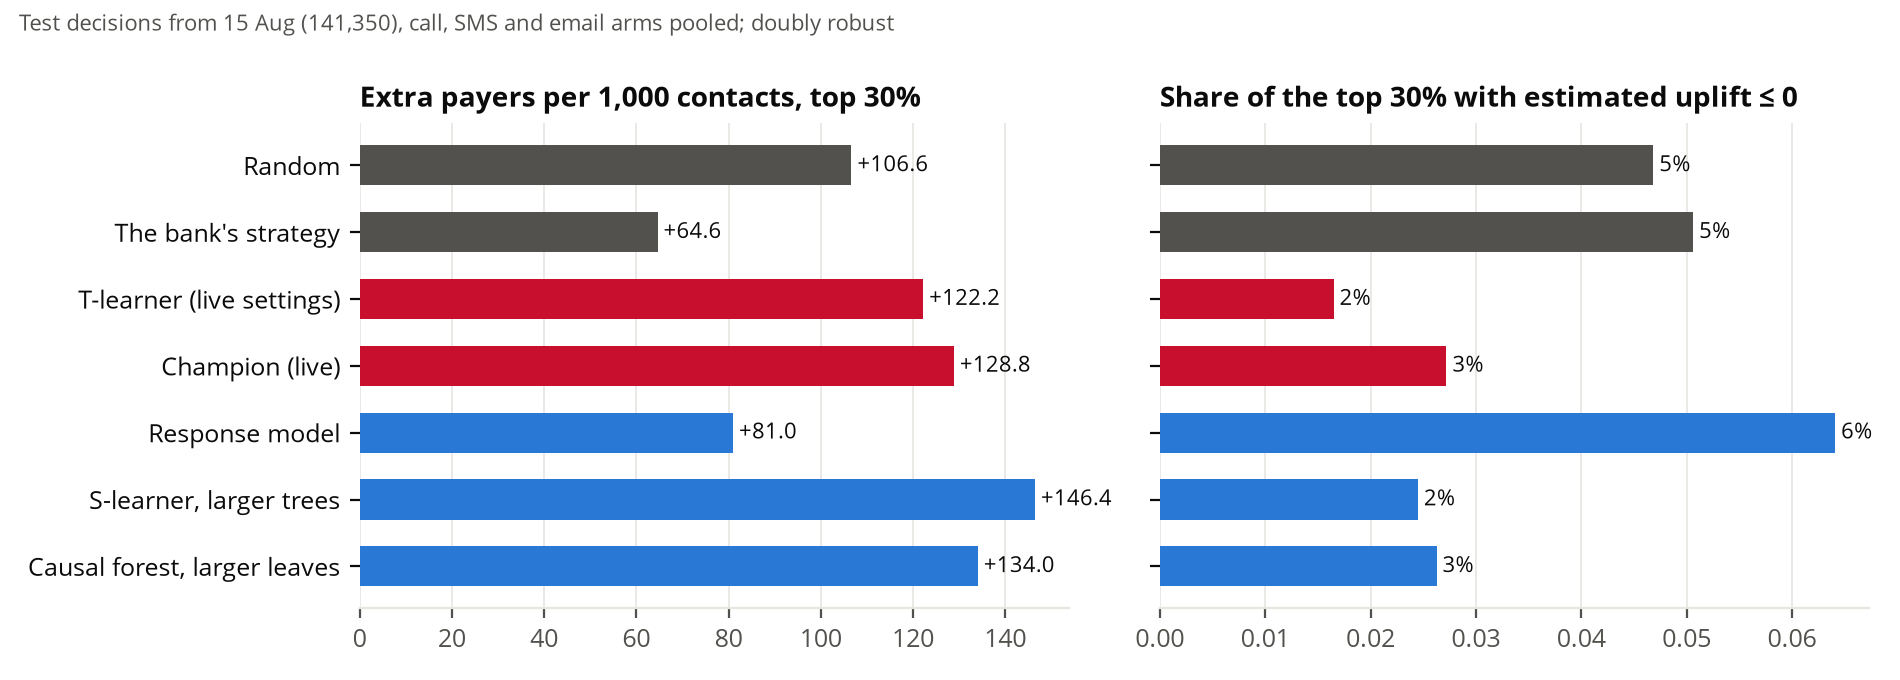
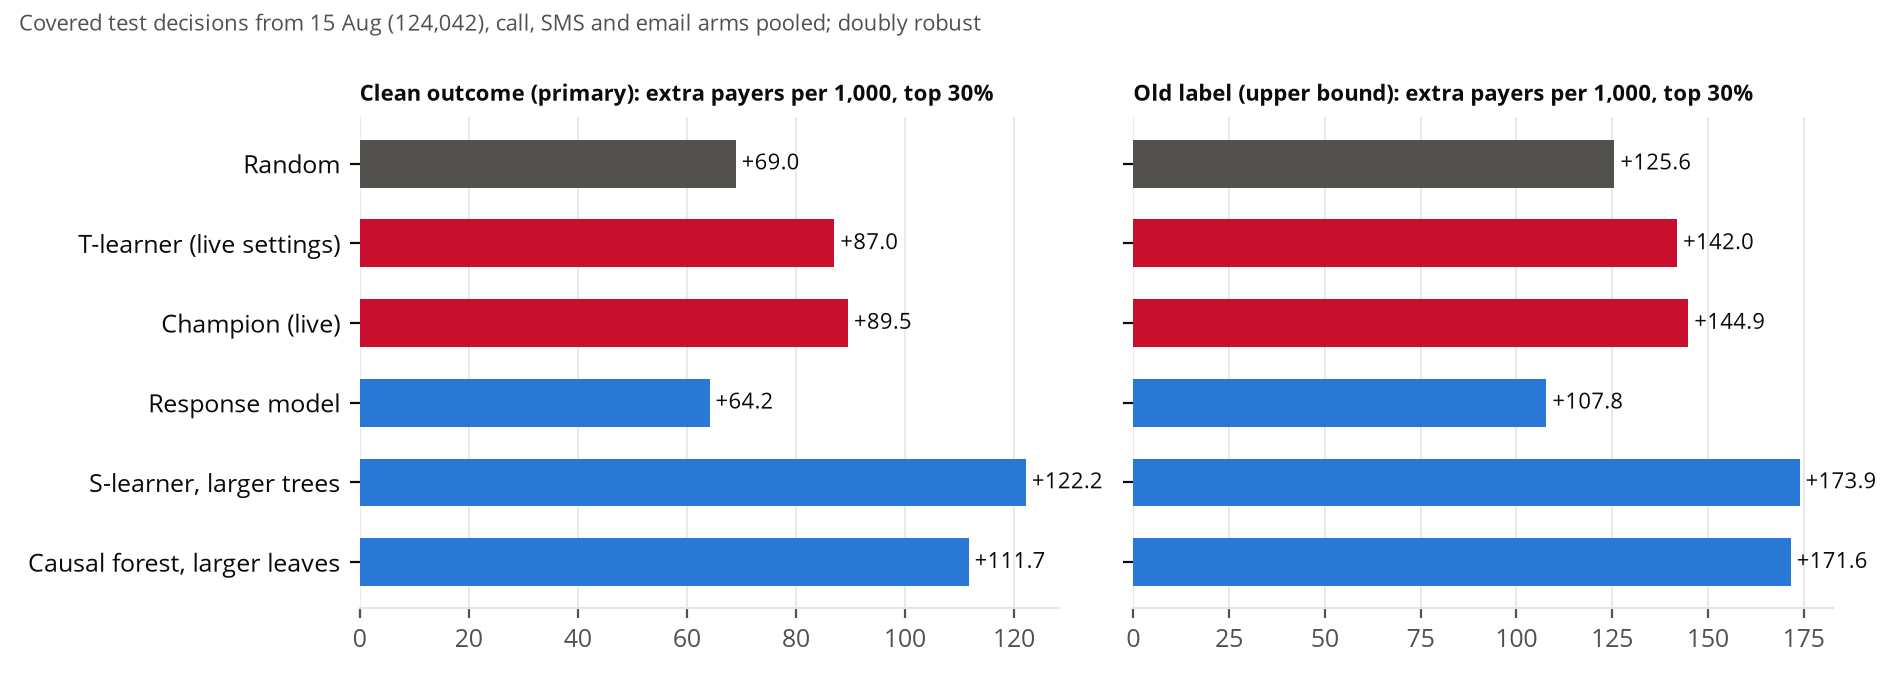
B10 on the clean outcome: decision_B10.py

diff --git a/scripts/decision_B10.py b/scripts/decision_B10.py
@@ -1,0 +1,243 @@
+# ruff: noqa: E501  (report prose)
+"""Decision B10 (docs/reports/decisions.md): uplift against a "who will pay" response model, and the learner choice.
+
+    uv run --extra model --extra analysis python scripts/decision_B10.py [--warehouse data/warehouse/kept.duckdb]
+
+Candidates are fitted as the live model is (rows with a known 14-day payment, the old label) and judged on the windows
+of uplift_learners.py: variants chosen on validation (fitted before 15 Jul, scored 15 Jul to 15 Aug), then scored once on
+the decisions from 15 Aug. The judge is the doubly robust (AIPW) Qini from nuisance models no candidate uses, on covered
+cases. Two outcomes: the clean one (paid_clean_14d, account-sourced payments; primary) and the old label (paid_14d, which
+counts link and app payments seen only as flags on the contact row; the upper bound, uplift_improvement.md).
+Writes data/exports/reports/decision_B10.json and docs/reports/figures/dec_B10.png.
+"""
+
+from __future__ import annotations
+
+import argparse
+import json
+import pickle
+from pathlib import Path
+from typing import Any
+
+import duckdb
+import numpy as np
+import pandas as pd
+from lightgbm import LGBMClassifier, LGBMRegressor
+from uplift_learners import ARMS, COLS, CUTOFF, NUIS, VALID_FROM, dr_qini
+
+from kept.nba.train import ACTIONS, load_rows
+from kept.nba.uplift import DEFAULT_PARAMS, TLearnerUplift, _frame
+
+REPO = Path(__file__).resolve().parents[1]
+OUTCOMES = {"clean": "paid_clean_14d", "old_label": "paid_14d"}  # judge outcomes, on the same covered rows
+TOPS, SURE = (0.1, 0.3, 0.5), 0.3
+S_VARIANTS = {"S-learner": {}, "S-learner, larger trees": dict(n_estimators=200, num_leaves=15)}
+CF_VARIANTS = {"Causal forest": {}, "Causal forest, larger leaves": dict(min_samples_leaf=200)}
+LIVE = "T-learner (live settings)"
+CHAMP = "Champion (live)"
+
+
+class ResponseModel:
+    """What a propensity-to-pay score does: one LightGBM (the live tree settings) for paid_14d on contacted decisions.
+    Every arm is ranked by that chance of paying, so `uplift` returns the same score in every column."""
+
+    def fit(self, df: pd.DataFrame) -> ResponseModel:
+        c = df[df.action != "wait"]
+        self.m = LGBMClassifier(**DEFAULT_PARAMS, random_state=0).fit(_frame(c[COLS]), c.paid_14d.astype(int))
+        return self
+
+    def uplift(self, features: pd.DataFrame) -> pd.DataFrame:
+        p = self.m.predict_proba(_frame(features[COLS]))[:, 1]
+        return pd.DataFrame({a.value: p for a in ACTIONS}, index=features.index)
+
+
+class SLearner:
+    """One LightGBM with the action as an input; uplift = P(paid | x, action) - P(paid | x, wait)."""
+
+    def __init__(self, params: dict[str, Any]) -> None:
+        self.params = {**DEFAULT_PARAMS, **params, "random_state": 0}
+
+    def fit(self, df: pd.DataFrame) -> SLearner:
+        self.m = LGBMClassifier(**self.params).fit(_arm(_frame(df[COLS]), df.action.to_numpy()), df.paid_14d.astype(int))
+        return self
+
+    def uplift(self, features: pd.DataFrame) -> pd.DataFrame:
+        X = _frame(features[COLS])
+        p = {a.value: self.m.predict_proba(_arm(X, a.value))[:, 1] for a in ACTIONS}
+        return pd.DataFrame(p, index=features.index).sub(p["wait"], axis=0)
+
+
+class CausalForest:
+    """econml's CausalForestDML per judged arm against waiting (a generalised random forest on the residualised outcome
+    and treatment). econml's forest defaults apart from `params`. Its trees take no missing values, which LightGBM
+    routes on its own, so a missing input takes the training median plus a 0/1 "was missing" column."""
+
+    def __init__(self, params: dict[str, Any]) -> None:
+        self.params, self.tau = params, {}
+
+    def _num(self, df: pd.DataFrame) -> np.ndarray:
+        X = _frame(df[COLS])
+        X = X.assign(pay_frequency=X.pay_frequency.cat.codes.replace(-1, np.nan)).astype(float)
+        return np.hstack([X.fillna(self.fill).to_numpy(), X[self.miss].isna().to_numpy(float)])
+
+    def fit(self, df: pd.DataFrame) -> CausalForest:
+        from econml.dml import CausalForestDML
+
+        X = _frame(df[COLS]).drop(columns="pay_frequency").astype(float)
+        self.fill = X.median().fillna(0.0).reindex(COLS, fill_value=0.0)  # pay_frequency codes: 0 when missing
+        self.miss = [c for c in COLS if df[c].isna().any() and df[c].notna().any()]
+        Xn, y = self._num(df), df.paid_14d.to_numpy(float)
+        small = dict(n_jobs=4, n_estimators=200, num_leaves=15, min_child_samples=300, learning_rate=0.05, verbose=-1, random_state=0)
+        for act in ARMS:
+            m = df.action.isin([act, "wait"]).to_numpy()
+            cf = CausalForestDML(model_y=LGBMRegressor(**small), model_t=LGBMClassifier(**small), discrete_treatment=True, inference=False, random_state=0, n_jobs=4, **self.params)
+            self.tau[act] = cf.fit(y[m], (df.action[m] == act).to_numpy(int), X=Xn[m])
+        return self
+
+    def uplift(self, features: pd.DataFrame) -> pd.DataFrame:
+        X = self._num(features)
+        out = {"wait": np.zeros(len(X))} | {a: cf.effect(X).ravel() for a, cf in self.tau.items()}
+        return pd.DataFrame(out, index=features.index)
+
+
+def _arm(X: pd.DataFrame, a: Any) -> pd.DataFrame:
+    """X with the action as a categorical input `_a` (one action for every row, or a Series of actions)."""
+    return X.assign(_a=pd.Categorical([a] * len(X) if isinstance(a, str) else a, categories=[x.value for x in ACTIONS]))
+
+
+def nuisance(train: pd.DataFrame, outcome: str) -> tuple[Any, Any]:
+    out = LGBMClassifier(**NUIS).fit(_arm(_frame(train[COLS]), train.action.to_numpy()), train[outcome].astype(int))
+    prop = LGBMClassifier(**NUIS).fit(_frame(train[COLS]), train.action)
+    return out, prop
+
+
+def pseudo(ev: pd.DataFrame, out: Any, prop: Any, act: str, outcome: str) -> tuple[Any, ...]:
+    """(rows in this arm or waiting, AIPW pseudo-outcomes, the outcome model's m1 and m0)."""
+    m = ev.action.isin([act, "wait"]).to_numpy()
+    e = ev[m]
+    Xe = _frame(e[COLS])
+    m1, m0 = (out.predict_proba(_arm(Xe, x))[:, 1] for x in (act, "wait"))
+    P = pd.DataFrame(prop.predict_proba(Xe), columns=prop.classes_)
+    ps = np.clip(P[act].to_numpy() / (P[act].to_numpy() + P["wait"].to_numpy()), 0.05, 0.95)
+    t, y = (e.action == act).to_numpy(float), e[outcome].to_numpy(float)
+    return m, m1 - m0 + t / ps * (y - m1) - (1 - t) / (1 - ps) * (y - m0), m1, m0
+
+
+def measure(models: dict[str, Any], ev: pd.DataFrame, out: Any, prop: Any, outcome: str) -> tuple[dict[str, Any], dict[str, list[Any]]]:
+    """Per arm and in total: the doubly robust Qini (raw and in noise units); extra payers per 1,000 contacts in the
+    top 10/30/50% (the mean pseudo-outcome there); and contacts on "sure things": the share of the top 30% whose
+    estimated uplift is <= 0, with their mean chance of paying if left alone. The estimated uplift and that chance
+    come from the judge's outcome model (m1 - m0 and m0), which no candidate uses. "Random" is the exact expectation
+    of a random ranking (top k% = everyone, Qini 0). Totals pool the arms: Qini in noise units summed, the rest
+    weighted by rows. Also returns, per name, each arm's (phi, uplift, m0, top sets) for the bootstrap."""
+    rng = np.random.default_rng(0)
+    res: dict[str, Any] = {}
+    parts: dict[str, list[Any]] = {}
+    for act in ARMS:
+        m, phi, m1, m0 = pseudo(ev, out, prop, act, outcome)
+        ref, n = m1 - m0, len(phi)
+        noise = float(np.std([dr_qini(rng.random(n), phi) for _ in range(100)]))
+        scores = {"Random": None} | {k: mdl.uplift(ev[m])[act].to_numpy() for k, mdl in models.items()}
+        res[act] = {"rows": n, "noise": noise, "models": {}}
+        for name, s in scores.items():
+            o = np.arange(n) if s is None else np.argsort(-s, kind="stable")
+            top = {k: o if s is None else o[: round(k * n)] for k in TOPS}
+            q = 0.0 if s is None else dr_qini(s, phi)
+            parts.setdefault(name, []).append((phi, ref, m0, top))
+            res[act]["models"][name] = {"qini": q, "qini_noise_units": q / noise} | summarise([(phi, ref, m0, top)])
+    res["total"] = {"rows": sum(res[a]["rows"] for a in ARMS), "models": {
+        n: {"qini_noise_units": sum(res[a]["models"][n]["qini_noise_units"] for a in ARMS)} | summarise(p) for n, p in parts.items()}}
+    return res, parts
+
+
+def summarise(parts: list[Any], w: list[np.ndarray] | None = None) -> dict[str, float]:
+    """Pooled over arms (optionally with bootstrap weights): extra payers per 1,000 in each top set, and the sure-thing
+    share and chance of paying if left alone in the top 30%."""
+    z = list(zip(w or [np.ones(len(p[0])) for p in parts], parts, strict=True))
+
+    def mean(k: float, val: Any) -> float:  # weighted mean of val(phi, ref, m0)[top k] over the pooled arms
+        return float(sum((wi[p[3][k]] * val(*p[:3])[p[3][k]]).sum() for wi, p in z) / sum(wi[p[3][k]].sum() for wi, p in z))
+
+    out = {f"per_1000_top{round(k * 100)}": 1000 * mean(k, lambda phi, ref, m0: phi) for k in TOPS}
+    out["sure_things_top30"] = mean(SURE, lambda phi, ref, m0: (ref <= 0).astype(float))
+    out["p_pay_if_left_top30"] = mean(SURE, lambda phi, ref, m0: m0)
+    return out
+
+
+def paired_boot(parts: dict[str, list[Any]], a: str, b: str, reps: int = 1000) -> dict[str, list[float]]:
+    """95% interval of a minus b, extra payers per 1,000 in the top 30%, all arms: the decisions resampled (the same
+    Poisson weights for both), the models and the judge held fixed."""
+    rng = np.random.default_rng(0)
+    d: dict[str, list[float]] = {"a": [], "b": [], "diff": []}
+    for _ in range(reps):
+        w = [rng.poisson(1.0, len(p[0])).astype(float) for p in parts[a]]
+        va, vb = (summarise(parts[x], w)["per_1000_top30"] for x in (a, b))
+        d["a"].append(va), d["b"].append(vb), d["diff"].append(va - vb)
+    return {k: [float(x) for x in np.percentile(v, [2.5, 97.5])] for k, v in d.items()}
+
+
+def main() -> None:
+    from reportlib import BLUE, KEPT, MUTED, plt, save, style, tidy
+
+    ap = argparse.ArgumentParser()
+    ap.add_argument("--warehouse", default=str(REPO / "data" / "warehouse" / "kept.duckdb"))
+    args = ap.parse_args()
+    conn = duckdb.connect(args.warehouse, read_only=True)
+    conn.execute("set memory_limit = '4GB'; set threads = 4")
+    rows = load_rows(conn, extras=True)
+    known = rows[rows.paid_14d_known].assign(paid_14d=lambda d: d.paid_14d.astype(int))  # the live model's rows
+    cov = known[known.covered].assign(paid_clean_14d=lambda d: d.paid_clean_14d.astype(int))  # the judge's rows
+
+    def live(df: pd.DataFrame) -> TLearnerUplift:
+        return TLearnerUplift(ACTIONS).fit(df[COLS], action=df.action, paid_14d=df.paid_14d, is_random_assignment=pd.Series(True, index=df.index))
+
+    def judge(ev: pd.DataFrame, fit: pd.DataFrame, models: dict[str, Any]) -> dict[str, Any]:
+        r = {}
+        for key, col in OUTCOMES.items():
+            out, prop = nuisance(fit, col)
+            r[key] = measure(models, ev, out, prop, col)
+        return r
+
+    tune = known[known.decision_at < CUTOFF]
+    fit, val = tune[tune.decision_at < VALID_FROM], tune[tune.decision_at >= VALID_FROM]
+    cfit, cval = (cov[(cov.decision_at < VALID_FROM)], cov[(cov.decision_at >= VALID_FROM) & (cov.decision_at < CUTOFF)])
+    cands: dict[str, Any] = {LIVE: live(fit), "Response model": ResponseModel().fit(fit)}
+    cands |= {n: SLearner(p).fit(fit) for n, p in S_VARIANTS.items()} | {n: CausalForest(p).fit(fit) for n, p in CF_VARIANTS.items()}
+    v = judge(cval, cfit, cands)
+    vc = v["clean"][0]
+    s_best, cf_best = (max(vs, key=lambda n: vc["total"]["models"][n]["qini_noise_units"]) for vs in (S_VARIANTS, CF_VARIANTS))
+    print("validation done", s_best, cf_best, flush=True)
+    full = known[known.decision_at < CUTOFF]
+    cfull, ctest = cov[cov.decision_at < CUTOFF], cov[cov.decision_at >= CUTOFF]
+    final: dict[str, Any] = {LIVE: live(full), CHAMP: pickle.loads((REPO / "data" / "exports" / "models" / "uplift.pkl").read_bytes()),
+                             "Response model": ResponseModel().fit(full), s_best: SLearner(S_VARIANTS[s_best]).fit(full), cf_best: CausalForest(CF_VARIANTS[cf_best]).fit(full)}
+    t = judge(ctest, cfull, final)
+    res = {"windows": {"validation": "fitted before 15 Jul 2026, scored 15 Jul to 15 Aug", "test": "fitted before 15 Aug 2026, scored from 15 Aug"},
+           "judged_on": "covered cases; clean = paid_clean_14d (account-sourced), old_label = paid_14d (contact flags included); candidates fitted on the live rows and label",
+           "rows": {"fit_validation": len(fit), "validation": len(val), "fit_test": len(full), "test": int((known.decision_at >= CUTOFF).sum()),
+                    "judge_fit_validation": len(cfit), "judge_validation": len(cval), "judge_fit_test": len(cfull), "judge_test": len(ctest)},
+           "chosen_on_validation": {"s_learner": s_best, "causal_forest": cf_best},
+           "validation": {k: v[k][0] for k in OUTCOMES}, "test": {k: t[k][0] for k in OUTCOMES},
+           "paired_bootstrap_top30_live_vs_response": {k: paired_boot(t[k][1], LIVE, "Response model") for k in OUTCOMES}}
+    (REPO / "data" / "exports" / "reports" / "decision_B10.json").write_text(json.dumps(res, indent=1))
+    style()
+    names = list(t["clean"][0]["total"]["models"])
+    fig, axs = plt.subplots(1, 2, figsize=(9.5, 3.4), sharey=True)
+    for ax, key, title in ((axs[0], "clean", "Clean outcome (primary)"), (axs[1], "old_label", "Old label (upper bound)")):
+        T = t[key][0]["total"]["models"]
+        y = list(range(len(names)))[::-1]
+        vals = [T[n]["per_1000_top30"] for n in names]
+        ax.barh(y, vals, color=[KEPT if n in (LIVE, CHAMP) else MUTED if n == "Random" else BLUE for n in names], height=0.6)
+        for yi, val_ in zip(y, vals, strict=True):
+            ax.text(val_, yi, f" {val_:+.1f}", va="center", fontsize=8)
+        ax.set_yticks(y, names)
+        ax.set_title(f"{title}: extra payers per 1,000, top 30%", loc="left", fontsize=8)
+        tidy(ax)
+    fig.suptitle(f"Covered test decisions from 15 Aug ({len(ctest):,}), call, SMS and email arms pooled; doubly robust", fontsize=8, color=MUTED, x=0.01, ha="left")
+    print(save(fig, "dec_B10"))
+    print(json.dumps({"chosen": res["chosen_on_validation"], "boot": res["paired_bootstrap_top30_live_vs_response"],
+                      "test": {k: {n: {m: round(x, 3) for m, x in r.items()} for n, r in res["test"][k]["total"]["models"].items()} for k in OUTCOMES}}, indent=1))
+
+
+if __name__ == "__main__":
+    main()
